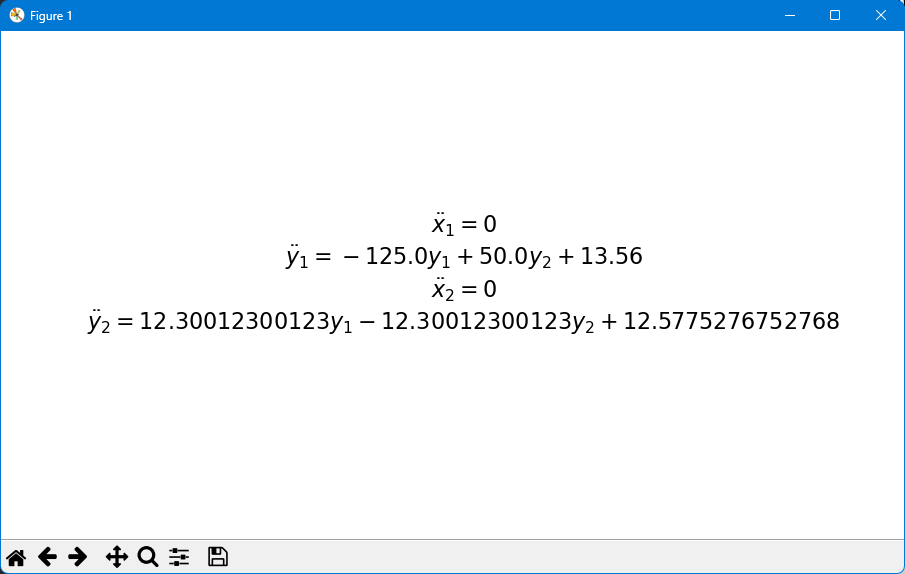
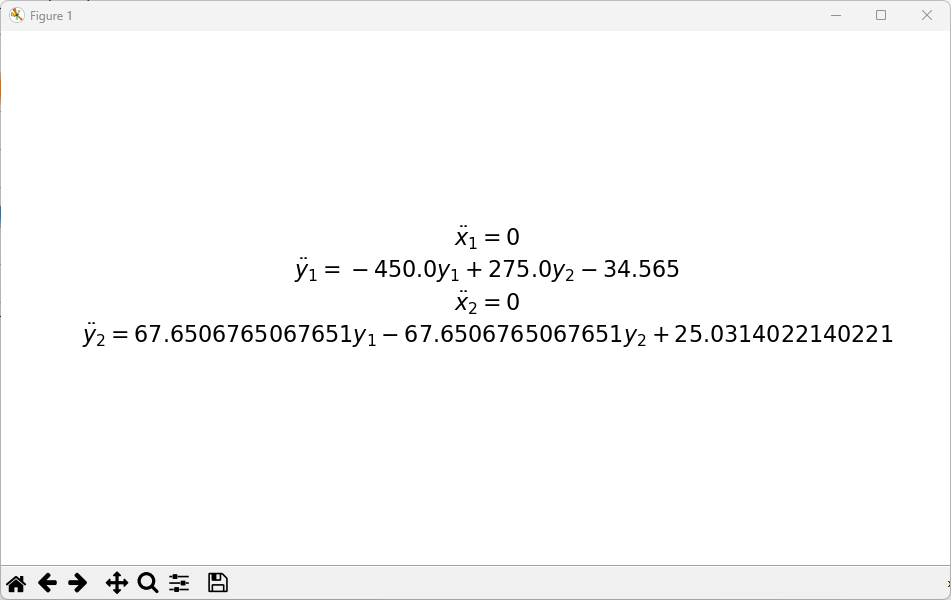
Added additional information to the readme file and changed to given example.

Changed region(s): [[0.0, 0.0, 1.0, 1.0], [0.0928, 0.3554, 0.9282, 0.5923]]

diff --git a/GUI/GUI.py b/GUI/GUI.py
@@ -697,7 +697,6 @@ class IC(wx.Panel):
 
         self.i += 1 
 
-    
 
 
 # Create The Frame for the Create Element 

diff --git a/README.md b/README.md
@@ -44,24 +44,24 @@ An example is used to show how to use the app. A double mass oscillator is set u
 ![CreateElement](/Pictures/CreateElement.png)
 * Here you can add **_Masses_** and **_Springs_** to the system. It makes no difference whether you add the springs or the masses first.
 * Let's select **_Mass_** first. Click on **_Masspoint_** in the next window.
-* There you can enter the mass of the **_Masspoint_**. Let's enter **_2 kg_**.
+* There you can enter the mass of the **_Masspoint_**. Let's enter $$\inline 2\,\text{kg}$$.
 ![Mass2Parameters](/Pictures/Mass2Parameters.png)
 * Press **_submit_** and close the **_Create Element_** window.
 * Now click on **_Create Element_** ⟶ **_Masses_** ⟶ **_Steady Body_**.
 * The steady body needs 4 parameters: **_density_**, **_length_**, **_height_** and **_width_**.
-* For example you can enter **_2710 kg/m^3_** for the **_density_**. The **_length_** is **_0.2 m_**, the height can be **_0.15 m_** and the **_width_** is **_0.1 m_**.
+* For example you can enter $$\inline 2710 \, \frac{\text{kg}}{\text{m}^3}$$ for the **_density_**. The **_length_** is $$\inline 0.2\,\text{m}$$, the height can be $$\inline 0.15\,\text{m}$$ and the **_width_** is $$\inline 0.1\,\text{m}$$.
 ![Mass1Parameters](/Pictures/Mass1Parameters.png)
 * Press **_submit_** and close the **_Create Element_** window.
 * Now click on **_Create Element_** ⟶ **_Spring_** ⟶ **_Single Spring_**.
-* There you have to enter the **_stiffness_** and the **_length_** of the spring. For example we can enter **_150 N/m_** and **_0.2 m_**.
+* There you have to enter the **_stiffness_** and the **_length_** of the spring. For example we can enter $$\inline 350\, \frac{\text{N}}{\text{m}}$$ and $$\inline 0.1\,\text{m}$$.
 ![Spring1Parameters](/Pictures/SpringParameters.png)
-* Press **_submit_**. Next you can enter the **_stiffness_** and the **_length_** for the second spring. For example **_100 N/m_** **_and 0.15 m_**.
+* Press **_submit_**. Next you can enter the **_stiffness_** and the **_length_** for the second spring. For example $$\inline 550\, \frac{\text{N}}{\text{m}}$$ and $$\inline 0.15\,\text{m}$$.
 ![Spring2Parameters](/Pictures/Spring2Parameters.png)
 * Press **_submit_** and close the **_Create Element_** window.
 * Now we created the mechanical system more precisely a **double mass oscillator**.
-* Next we have to enter the inital condition. So basically the initial positions and the initial velocities.
+* Next we have to enter the initial condition. So basically the initial positions and the initial velocities.
 * Click on **_I Conditions_**. The **_Initial Conditions_** window will pop up. Regarding the order of the entered masses you have to enter the initial position and initial velocity.
-* For the first mass we can use **_0.2 m_** and **_0 m/s_**. The second mass can have a inital position of **_0.5 m_** and a initial velocity of **_0 m/s_**.
+* For the first mass we can use $$\inline -0.2\,\text{m}$$ and $$\inline 0\, \frac{\text{m}}{\text{s}}$$. The second mass can have a inital position of $$\inline -0.6\,\text{m}$$ and a initial velocity of $$\inline 0\, \frac{\text{m}}{\text{s}}$$.
 ![InitalConditions](/Pictures/IC.png)
 * Press **_submit_** and close the **_Initial Condition_** window.
 * Now press **_Run Simulation_**. The system will be simulated. Afterwards the results are plotted and an animation of the system will occur. Additionally a new window will pop up that displays the equation of motions. In a third window you can enter a name to save the system and the simulated data.
@@ -71,6 +71,37 @@ An example is used to show how to use the app. A double mass oscillator is set u
 ![Save](/Pictures/SaveResults.png)
 * Close the **_Save_** window.
 * To create a new system, you must restart the program in the current release.
+
+### Additional Information
+In addition to single springs, it is also possible to build both parallel and serial springs.
+
+
+#### Parallel Springs
+Mechanically, parallel springs can be represented by a single spring. So if you want to set up parallel springs, the program will automatically compute the resulting single spring.
+The resulting spring constant $$ k_{res} $$ is computed by:
+
+$$ k_{res}=\sum_{i=1}^{n}k_{i}. $$
+
+And $$ n $$ represents the number of parallel springs. 
+As the parallel springs are the same length, the length of the replacement spring is the same as that of the parallel springs.
+
+
+#### Serial Springs
+Mechanically, serial springs can also be represented by a single spring. So if you want to set up single springs, the program will automatically compute the resulting single spring.
+The resulting inverse spring constant $$ k_{inv} $$ is computed by:
+
+$$ {k_{inv}}=\sum_{i=1}^{n}\frac {1}{k_{i}}, $$
+
+with $$ n $$ as the number of serial springs. That means the spring constant $$ k_{res} $$ of the resulting single spring is given by:
+
+$$ k_{res}=\frac {1}{k_{inv}}. $$
+
+In the case of the serial spring, the total length of the replacement spring also changes. Therefore the length of the resulting single spring $$ l_{res} $$ can be computed as:
+
+$$ l_{res}=\sum_{i=1}^{n}l_{i}, $$
+
+with $$ n $$ as the number of serial springs.
+
 
 ## Help
 
